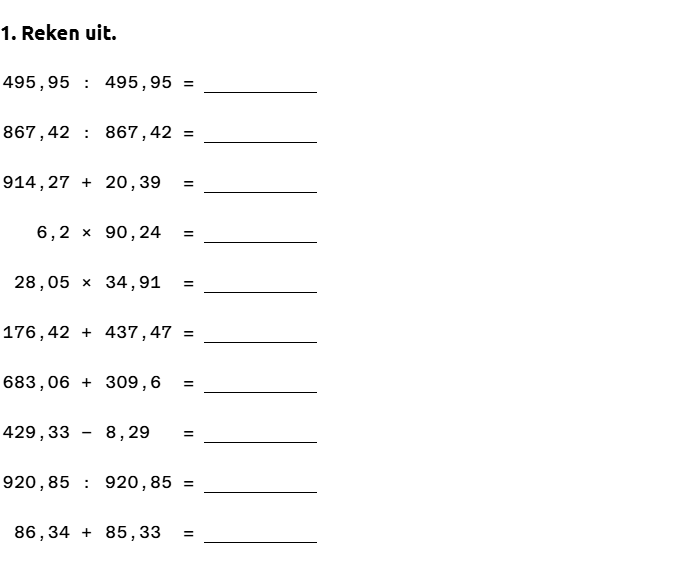
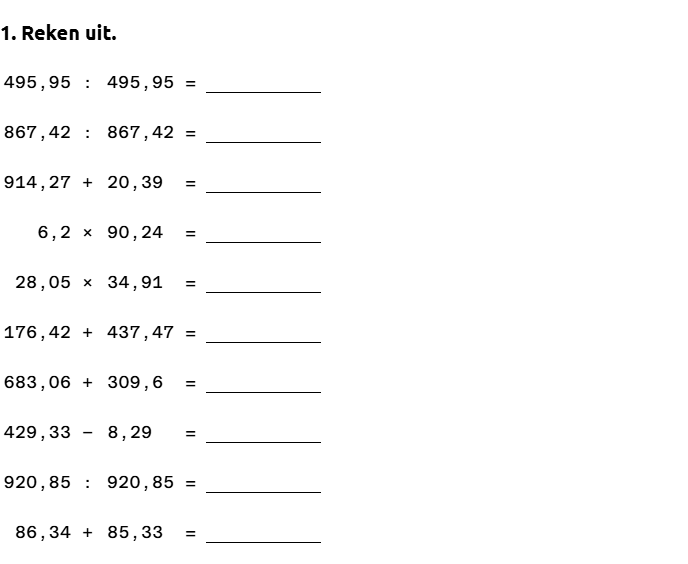
chore(catalogue): regenerate after the limit-fix campaign

diff --git a/oefeningen.html b/oefeningen.html
@@ -1025,7 +1025,7 @@
 
       <div id="catalogue-cards">
 <!-- catalogue:start -->
-    <!-- catalogue: seed 1234, 2026-09-13, 128 leaves -->
+    <!-- catalogue: seed 1234, 2026-10-08, 128 leaves -->
     <section id="getallenkennis">
       <h2>Getallenkennis</h2>
       <h3>Getalbegrip</h3>
@@ -1063,7 +1063,7 @@
         <h4>Tabel invullen</h4>
         <p class="ex-instruction">&ldquo;Vul de plaatswaardetabel in.&rdquo;</p>
         <p class="ex-desc">Instelbaar: variant, plus aantal, breedte, lettergrootte en schrijfruimte.</p>
-        <img src="/oefeningen/plaatswaarde-tabel.png" alt="Voorbeeld van de oefening Tabel invullen" loading="lazy" width="688" height="600" />
+        <img src="/oefeningen/plaatswaarde-tabel.png" alt="Voorbeeld van de oefening Tabel invullen" loading="lazy" width="688" height="330" />
       </article>
       <article class="ex-card" id="splitsen-basis" data-leaf="splitsen-basis" data-type="splitsen">
         <h4>Rooster</h4>
@@ -1479,7 +1479,7 @@
         <h4>Kommagetallen</h4>
         <p class="ex-instruction">&ldquo;Cijfer uit.&rdquo;</p>
         <p class="ex-desc">Instelbaar: bewerking en getalsoort, plus aantal, breedte, lettergrootte en schrijfruimte.</p>
-        <img src="/oefeningen/cijferen-vermenigvuldigen-dec.png" alt="Voorbeeld van de oefening Kommagetallen" loading="lazy" width="688" height="510" />
+        <img src="/oefeningen/cijferen-vermenigvuldigen-dec.png" alt="Voorbeeld van de oefening Kommagetallen" loading="lazy" width="688" height="290" />
       </article>
       <article class="ex-card" id="cijferen-delen-nat" data-leaf="cijferen-delen-nat" data-type="cijferen-delen-nat">
         <h4>Natuurlijke getallen</h4>
@@ -1671,7 +1671,7 @@
         <h4>Herkennen</h4>
         <p class="ex-instruction">&ldquo;Hoeveel geld is dit?&rdquo;</p>
         <p class="ex-desc">Instelbaar: aantal, breedte, lettergrootte, schrijfruimte en de opties in het configuratiepaneel.</p>
-        <img src="/oefeningen/geld-herkennen.png" alt="Voorbeeld van de oefening Herkennen" loading="lazy" width="688" height="430" />
+        <img src="/oefeningen/geld-herkennen.png" alt="Voorbeeld van de oefening Herkennen" loading="lazy" width="688" height="392" />
       </article>
       <article class="ex-card" id="geld-tekenen" data-leaf="geld-tekenen" data-type="geld-tekenen">
         <h4>Bedrag tekenen</h4>
@@ -1745,7 +1745,7 @@
         <h4>Rooster tellen</h4>
         <p class="ex-instruction">&ldquo;Tel de vierkantjes. Wat is de oppervlakte?&rdquo;</p>
         <p class="ex-desc">Instelbaar: variant, plus aantal, breedte, lettergrootte en schrijfruimte.</p>
-        <img src="/oefeningen/oppervlakte-rooster.png" alt="Voorbeeld van de oefening Rooster tellen" loading="lazy" width="688" height="1117" />
+        <img src="/oefeningen/oppervlakte-rooster.png" alt="Voorbeeld van de oefening Rooster tellen" loading="lazy" width="688" height="700" />
       </article>
       <article class="ex-card" id="oppervlakte-berekenen" data-leaf="oppervlakte-berekenen" data-type="oppervlakte">
         <h4>Berekenen</h4>
